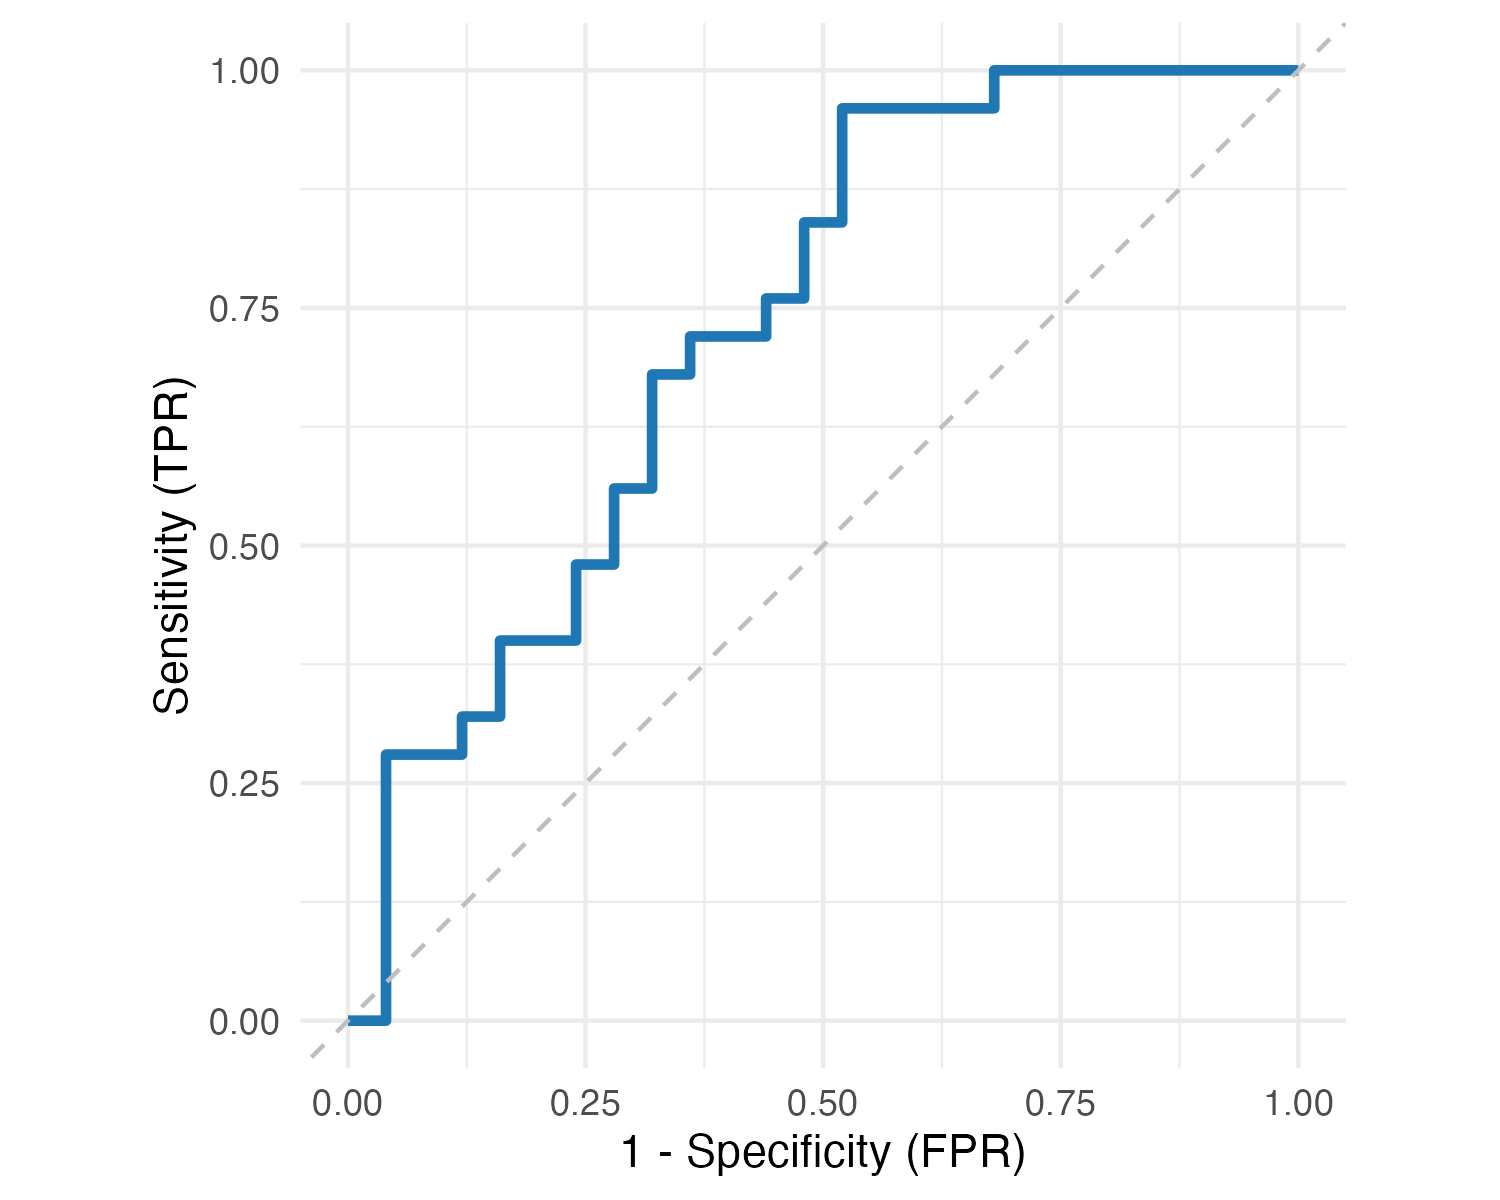
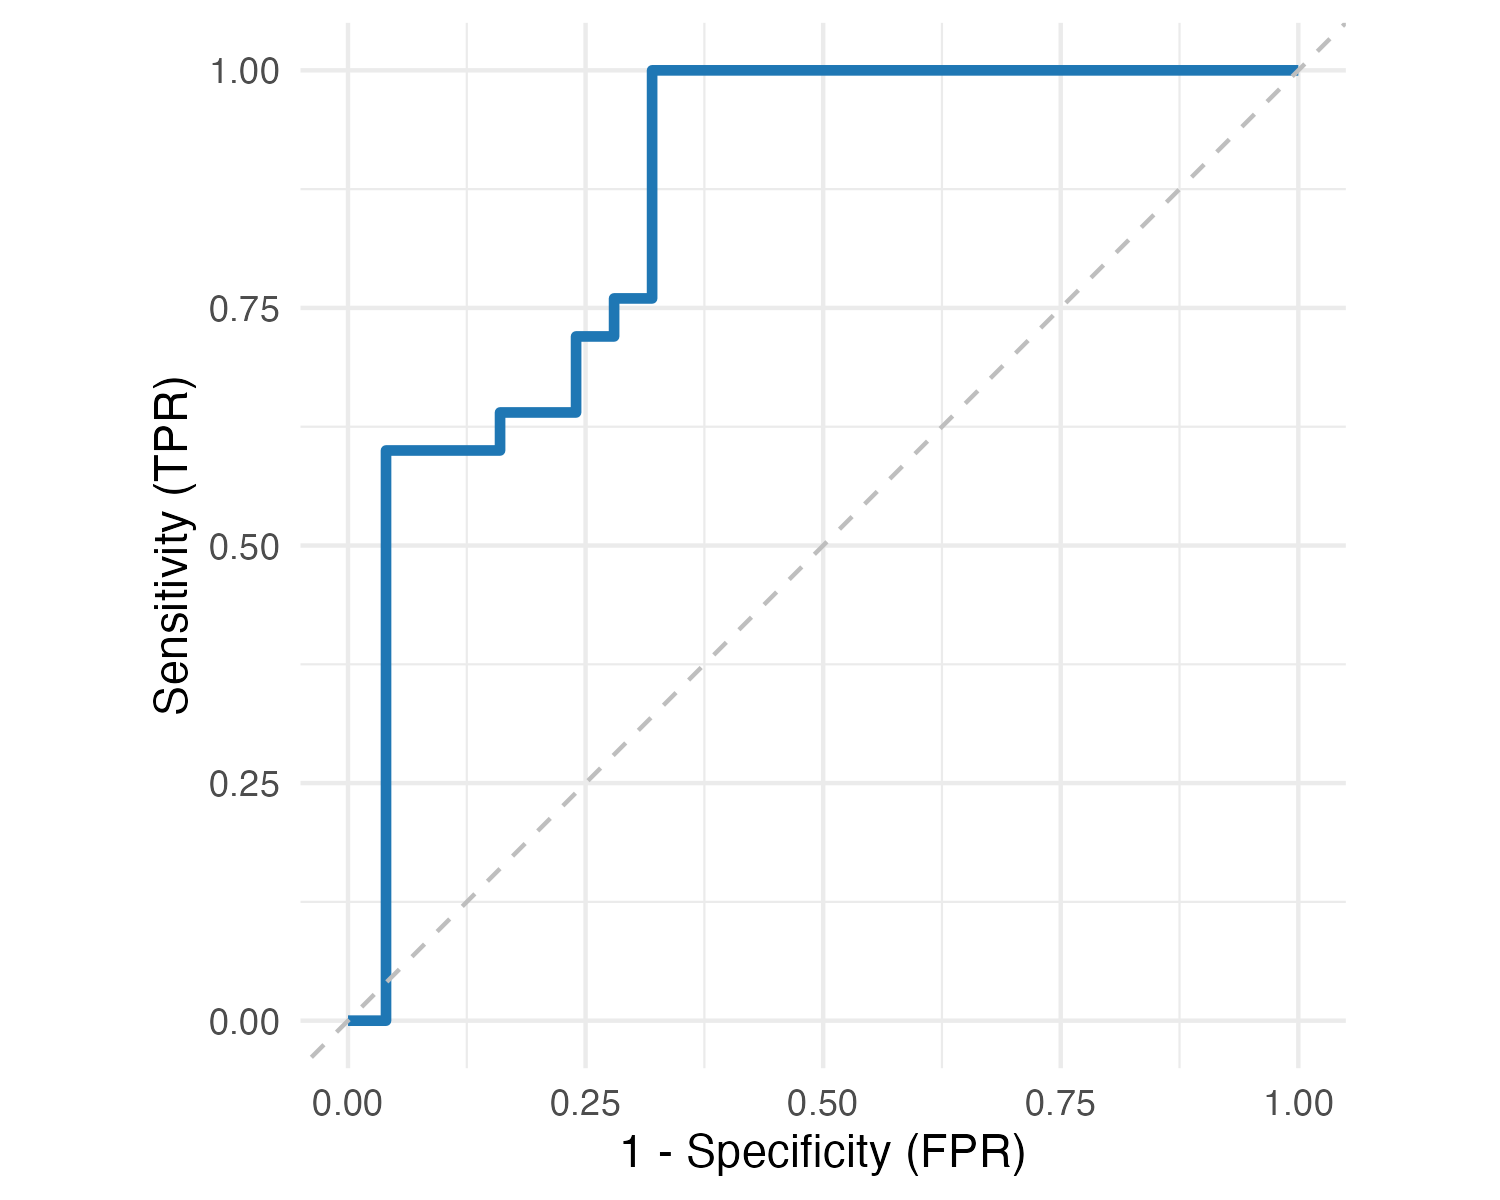
Publish site to docs/

Changed region(s): [[0.2453, 0.185, 0.552, 0.6475], [0.4293, 0.0308, 0.6747, 0.2467]]

diff --git a/docs/posts/statistics_vs_ML/index.html b/docs/posts/statistics_vs_ML/index.html
@@ -590,8 +590,8 @@ Normality and sample size
 <div class="sourceCode cell-code" id="cb10"><pre class="sourceCode r code-with-copy"><code class="sourceCode r"><span id="cb10-1"><a href="#cb10-1" aria-hidden="true" tabindex="-1"></a><span class="co"># Simulate data</span></span>
 <span id="cb10-2"><a href="#cb10-2" aria-hidden="true" tabindex="-1"></a><span class="fu">set.seed</span>(<span class="dv">123</span>)</span>
 <span id="cb10-3"><a href="#cb10-3" aria-hidden="true" tabindex="-1"></a>n <span class="ot">&lt;-</span> <span class="dv">100</span></span>
-<span id="cb10-4"><a href="#cb10-4" aria-hidden="true" tabindex="-1"></a>x1 <span class="ot">&lt;-</span> <span class="fu">c</span>(<span class="fu">rnorm</span>(n, <span class="fl">2.5</span>, <span class="fl">1.2</span>), <span class="fu">rnorm</span>(n, <span class="fl">3.5</span>, <span class="fl">1.2</span>))</span>
-<span id="cb10-5"><a href="#cb10-5" aria-hidden="true" tabindex="-1"></a>x2 <span class="ot">&lt;-</span> <span class="fu">c</span>(<span class="fu">rnorm</span>(n, <span class="fl">2.5</span>, <span class="fl">1.2</span>), <span class="fu">rnorm</span>(n, <span class="fl">3.5</span>, <span class="fl">1.2</span>))</span>
+<span id="cb10-4"><a href="#cb10-4" aria-hidden="true" tabindex="-1"></a>x1 <span class="ot">&lt;-</span> <span class="fu">c</span>(<span class="fu">rnorm</span>(n, <span class="fl">2.5</span>, <span class="dv">1</span>), <span class="fu">rnorm</span>(n, <span class="fl">3.75</span>, <span class="dv">1</span>))</span>
+<span id="cb10-5"><a href="#cb10-5" aria-hidden="true" tabindex="-1"></a>x2 <span class="ot">&lt;-</span> <span class="fu">c</span>(<span class="fu">rnorm</span>(n, <span class="fl">2.5</span>, <span class="dv">1</span>), <span class="fu">rnorm</span>(n, <span class="fl">3.75</span>, <span class="dv">1</span>))</span>
 <span id="cb10-6"><a href="#cb10-6" aria-hidden="true" tabindex="-1"></a>class <span class="ot">&lt;-</span> <span class="fu">factor</span>(<span class="fu">c</span>(<span class="fu">rep</span>(<span class="dv">0</span>, n), <span class="fu">rep</span>(<span class="dv">1</span>, n)), <span class="at">levels =</span> <span class="fu">c</span>(<span class="st">"0"</span>, <span class="st">"1"</span>))</span>
 <span id="cb10-7"><a href="#cb10-7" aria-hidden="true" tabindex="-1"></a></span>
 <span id="cb10-8"><a href="#cb10-8" aria-hidden="true" tabindex="-1"></a>df_ml <span class="ot">&lt;-</span> <span class="fu">tibble</span>(<span class="at">x1 =</span> x1, <span class="at">x2 =</span> x2, <span class="at">class =</span> class)</span></code><button title="Copy to Clipboard" class="code-copy-button"><i class="bi"></i></button></pre></div>
@@ -750,15 +750,15 @@ Table&nbsp;1: Summary of classification metrics at threshold 0.5 for training an
 <tbody>
   <tr>
    <td style="text-align:left;"> Train </td>
-   <td style="text-align:right;"> 0.687 </td>
-   <td style="text-align:right;"> 0.747 </td>
-   <td style="text-align:right;"> 0.627 </td>
+   <td style="text-align:right;"> 0.76 </td>
+   <td style="text-align:right;"> 0.787 </td>
+   <td style="text-align:right;"> 0.733 </td>
   </tr>
   <tr>
    <td style="text-align:left;"> Test </td>
-   <td style="text-align:right;"> 0.660 </td>
-   <td style="text-align:right;"> 0.600 </td>
-   <td style="text-align:right;"> 0.720 </td>
+   <td style="text-align:right;"> 0.74 </td>
+   <td style="text-align:right;"> 0.680 </td>
+   <td style="text-align:right;"> 0.800 </td>
   </tr>
 </tbody>
 </table>

diff --git a/docs/blog.html b/docs/blog.html
@@ -243,7 +243,7 @@ window.Quarto = {
     </div>
 </div>
 <div class="list quarto-listing-default">
-<div class="quarto-post image-right" data-index="0" data-categories="c3RhdGlzdGljcyUyQ21hY2hpbmUlMjBsZWFybmluZw==" data-listing-date-sort="1746223200000" data-listing-file-modified-sort="1746255451825" data-listing-date-modified-sort="NaN" data-listing-reading-time-sort="25" data-listing-word-count-sort="4813">
+<div class="quarto-post image-right" data-index="0" data-categories="c3RhdGlzdGljcyUyQ21hY2hpbmUlMjBsZWFybmluZw==" data-listing-date-sort="1746223200000" data-listing-file-modified-sort="1746256069721" data-listing-date-modified-sort="NaN" data-listing-reading-time-sort="25" data-listing-word-count-sort="4813">
 <div class="thumbnail">
 <p><a href="./posts/statistics_vs_ML/index.html" class="no-external"></a></p><a href="./posts/statistics_vs_ML/index.html" class="no-external">
 <p><img loading="lazy" src="./posts/statistics_vs_ML/roc-thumb.png" class="thumbnail-image"></p>

diff --git a/docs/archive.html b/docs/archive.html
@@ -235,7 +235,7 @@ window.Quarto = {
 
 <div class="quarto-listing quarto-listing-container-default" id="listing-listing">
 <div class="list quarto-listing-default">
-<div class="quarto-post image-right" data-index="0" data-categories="c3RhdGlzdGljcyUyQ21hY2hpbmUlMjBsZWFybmluZw==" data-listing-date-sort="1746223200000" data-listing-file-modified-sort="1746255451825" data-listing-date-modified-sort="NaN" data-listing-reading-time-sort="25" data-listing-word-count-sort="4813">
+<div class="quarto-post image-right" data-index="0" data-categories="c3RhdGlzdGljcyUyQ21hY2hpbmUlMjBsZWFybmluZw==" data-listing-date-sort="1746223200000" data-listing-file-modified-sort="1746256069721" data-listing-date-modified-sort="NaN" data-listing-reading-time-sort="25" data-listing-word-count-sort="4813">
 <div class="body">
 <h3 class="no-anchor listing-title">
 <a href="./posts/statistics_vs_ML/index.html" class="no-external">Statistics and Machine Learning: A shared landscape</a>
